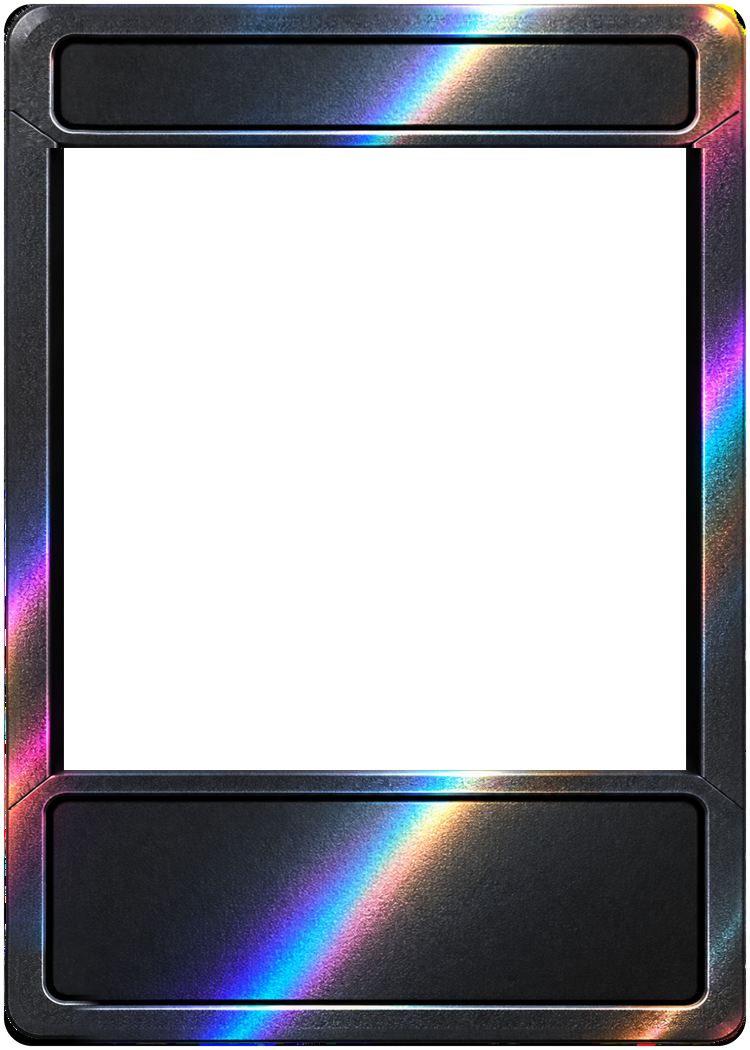
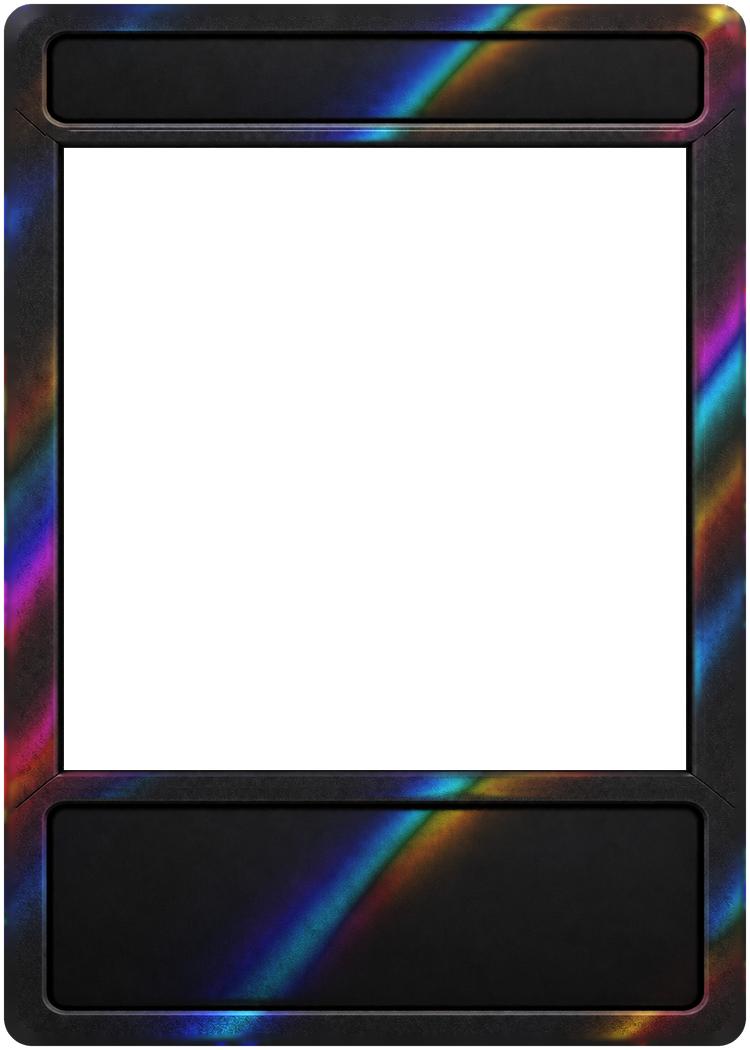
Frames: Coal holo remade on Coal's structure (black side strips gone)
Claude-Session: https://claude.ai/code/session_01LEzX9WUx8sWcSwwRyLeaEz

Changed region(s): [[0.0, 0.0, 1.0, 1.0]]

diff --git a/studio/src/frames.ts b/studio/src/frames.ts
@@ -89,7 +89,7 @@ export const BUILTIN_FRAMES: Record<string, Partial<Record<Variant, string>>> = 
 
 /** Bump (to a time in the past, e.g. when the change is made) when a frame file is added or changed: approvals made
  *  before this go stale and must be redone. */
-export const FRAMES_UPDATED_AT = Date.UTC(2026, 9, 12, 12, 0)
+export const FRAMES_UPDATED_AT = Date.UTC(2026, 9, 12, 18, 0)
 
 /** From the templates' layout.json (750 x 1050), doubled to 1500 x 2100. Identical on every frame. */
 export const FRAME_GEOMETRY = {
